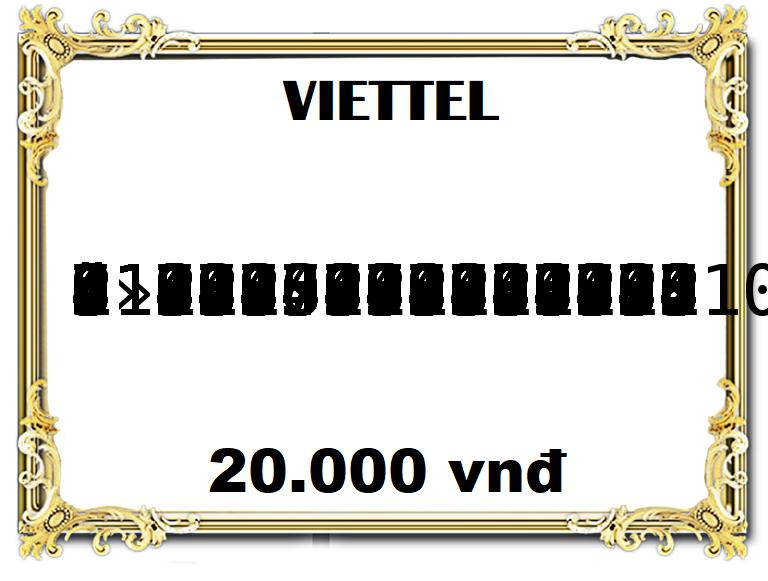
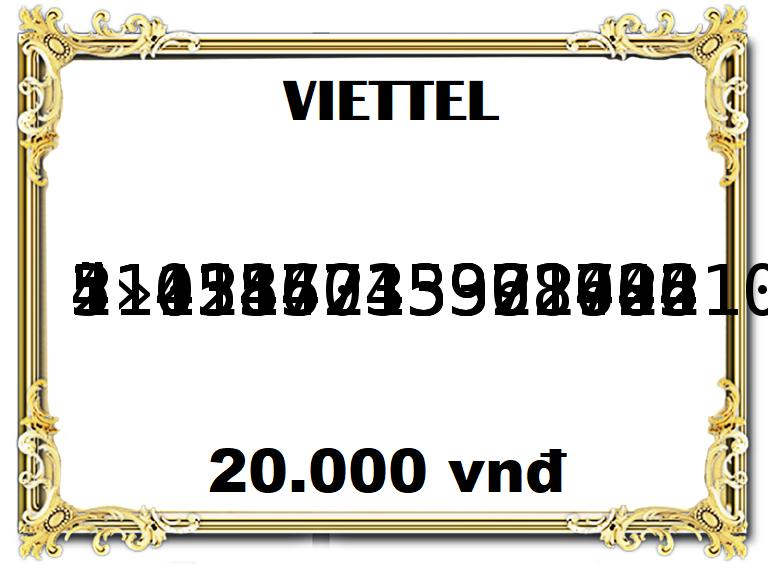
abc full

diff --git a/read.py b/read.py
@@ -2,15 +2,20 @@ from PIL import Image
 from PIL import ImageFont
 from PIL import ImageDraw
 import csv
+i = 0
 img = Image.open("khung_dichvu.png")
-draw = ImageDraw.Draw(img)
+#draw = ImageDraw.Draw(img)
 font = ImageFont.truetype("/usr/share/fonts/truetype/dejavu/DejaVuSansMono.ttf", 70)
 with open('card.csv', 'r') as csvFile:
     reader = csv.reader(csvFile)
     for row in reader:
 	for e in row:
+		draw = ImageDraw.Draw(img)
+		draw.text((70, 250),e,(0,0,0),font=font) 
+		img.save('card' + str(i) + '.jpg') 				
+		i = i + 1
 		print(e)
-draw.text((70, 250),e,(0,0,0),font=font)
-img.save('card5.jpg')
+#draw.text((70, 250),e,(0,0,0),font=font)
+#img.save('card' + i + '.jpg')
 csvFile.close()
 
